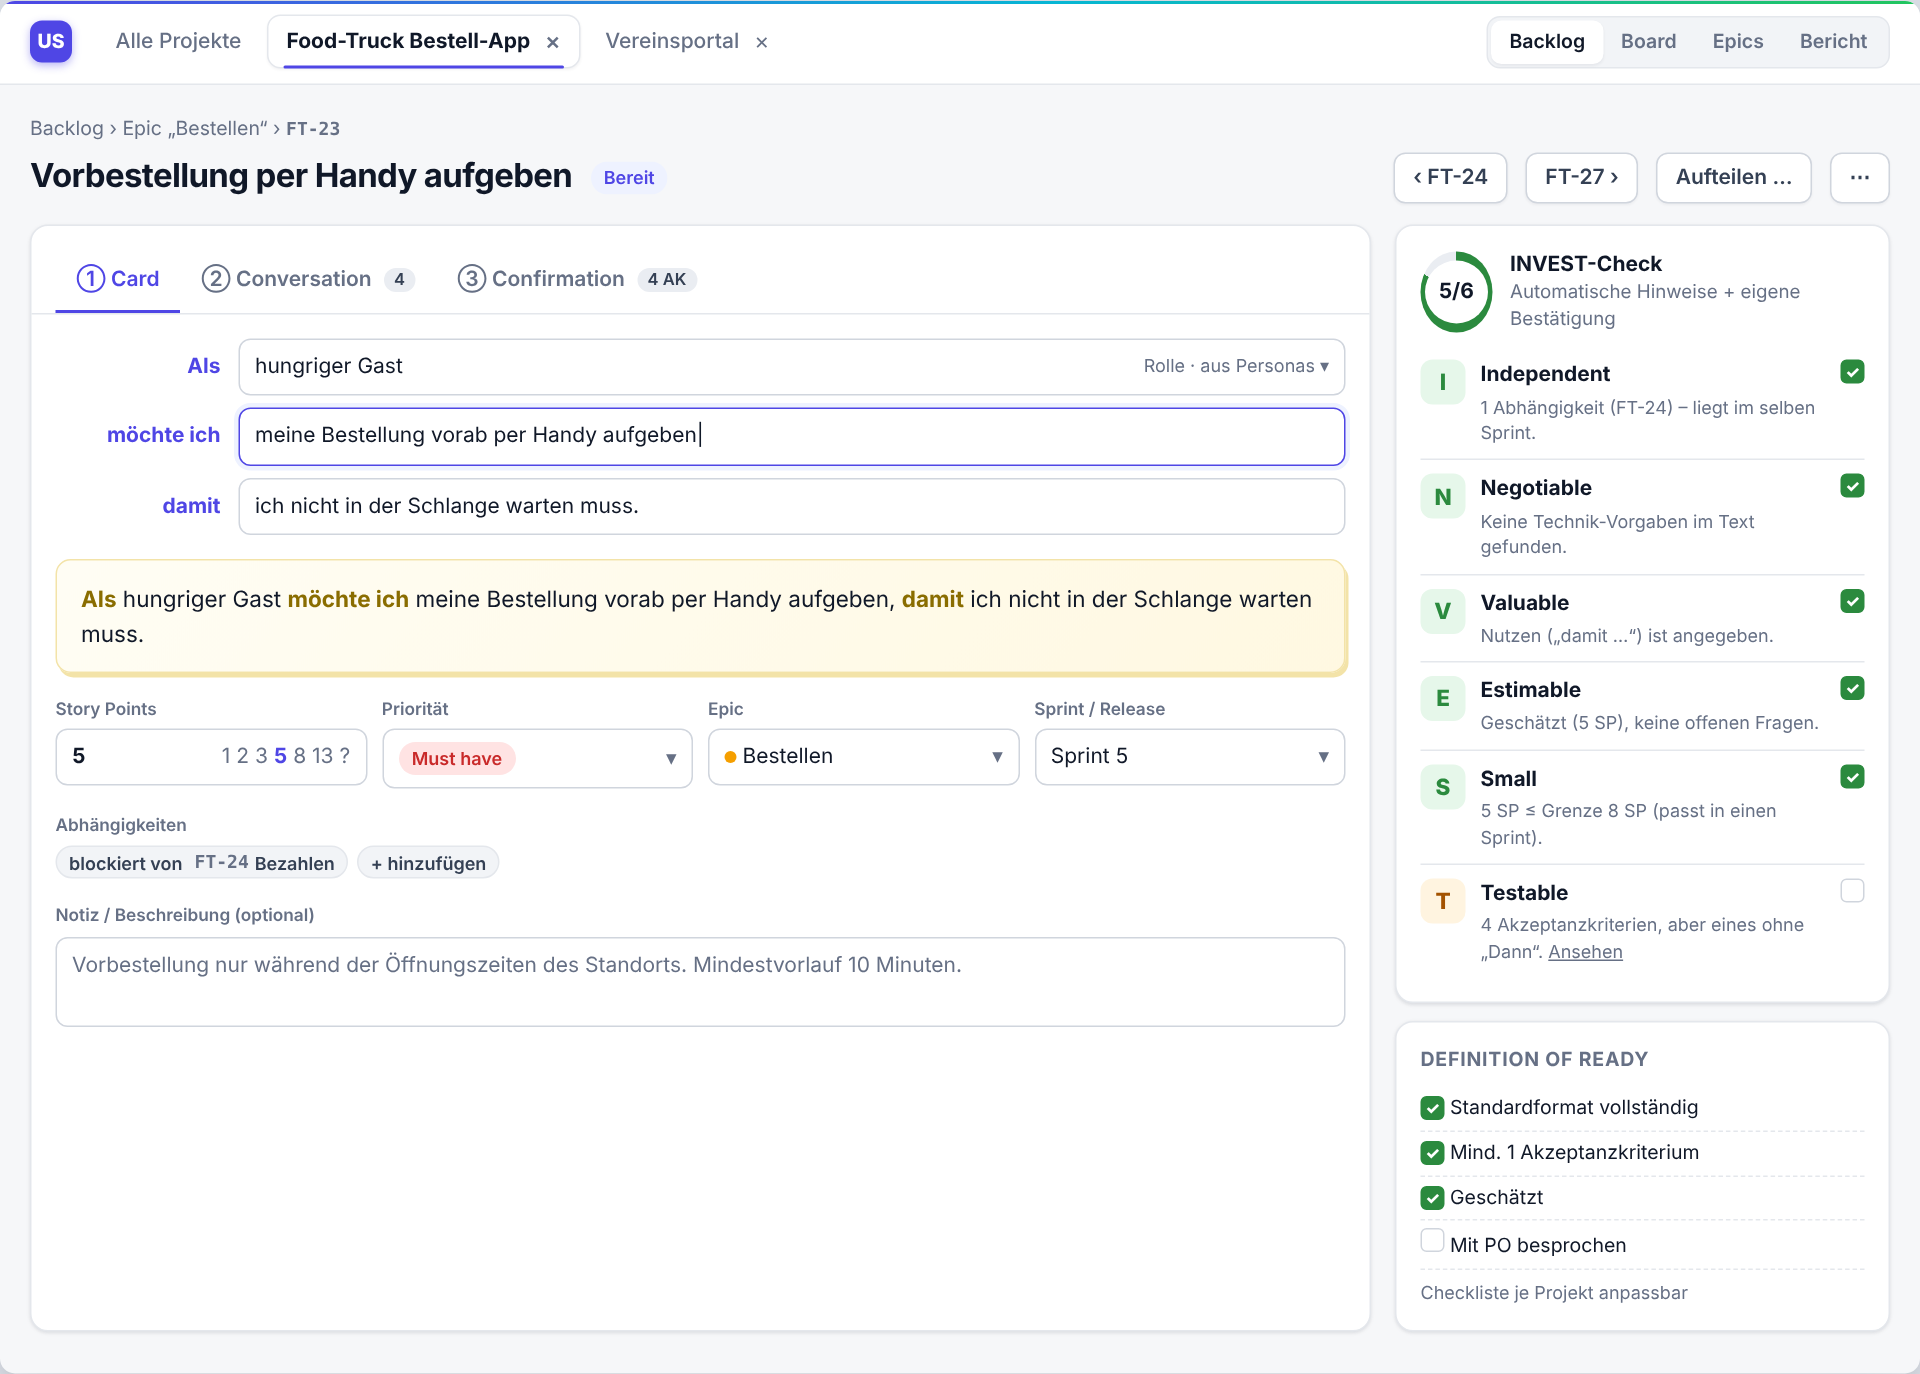
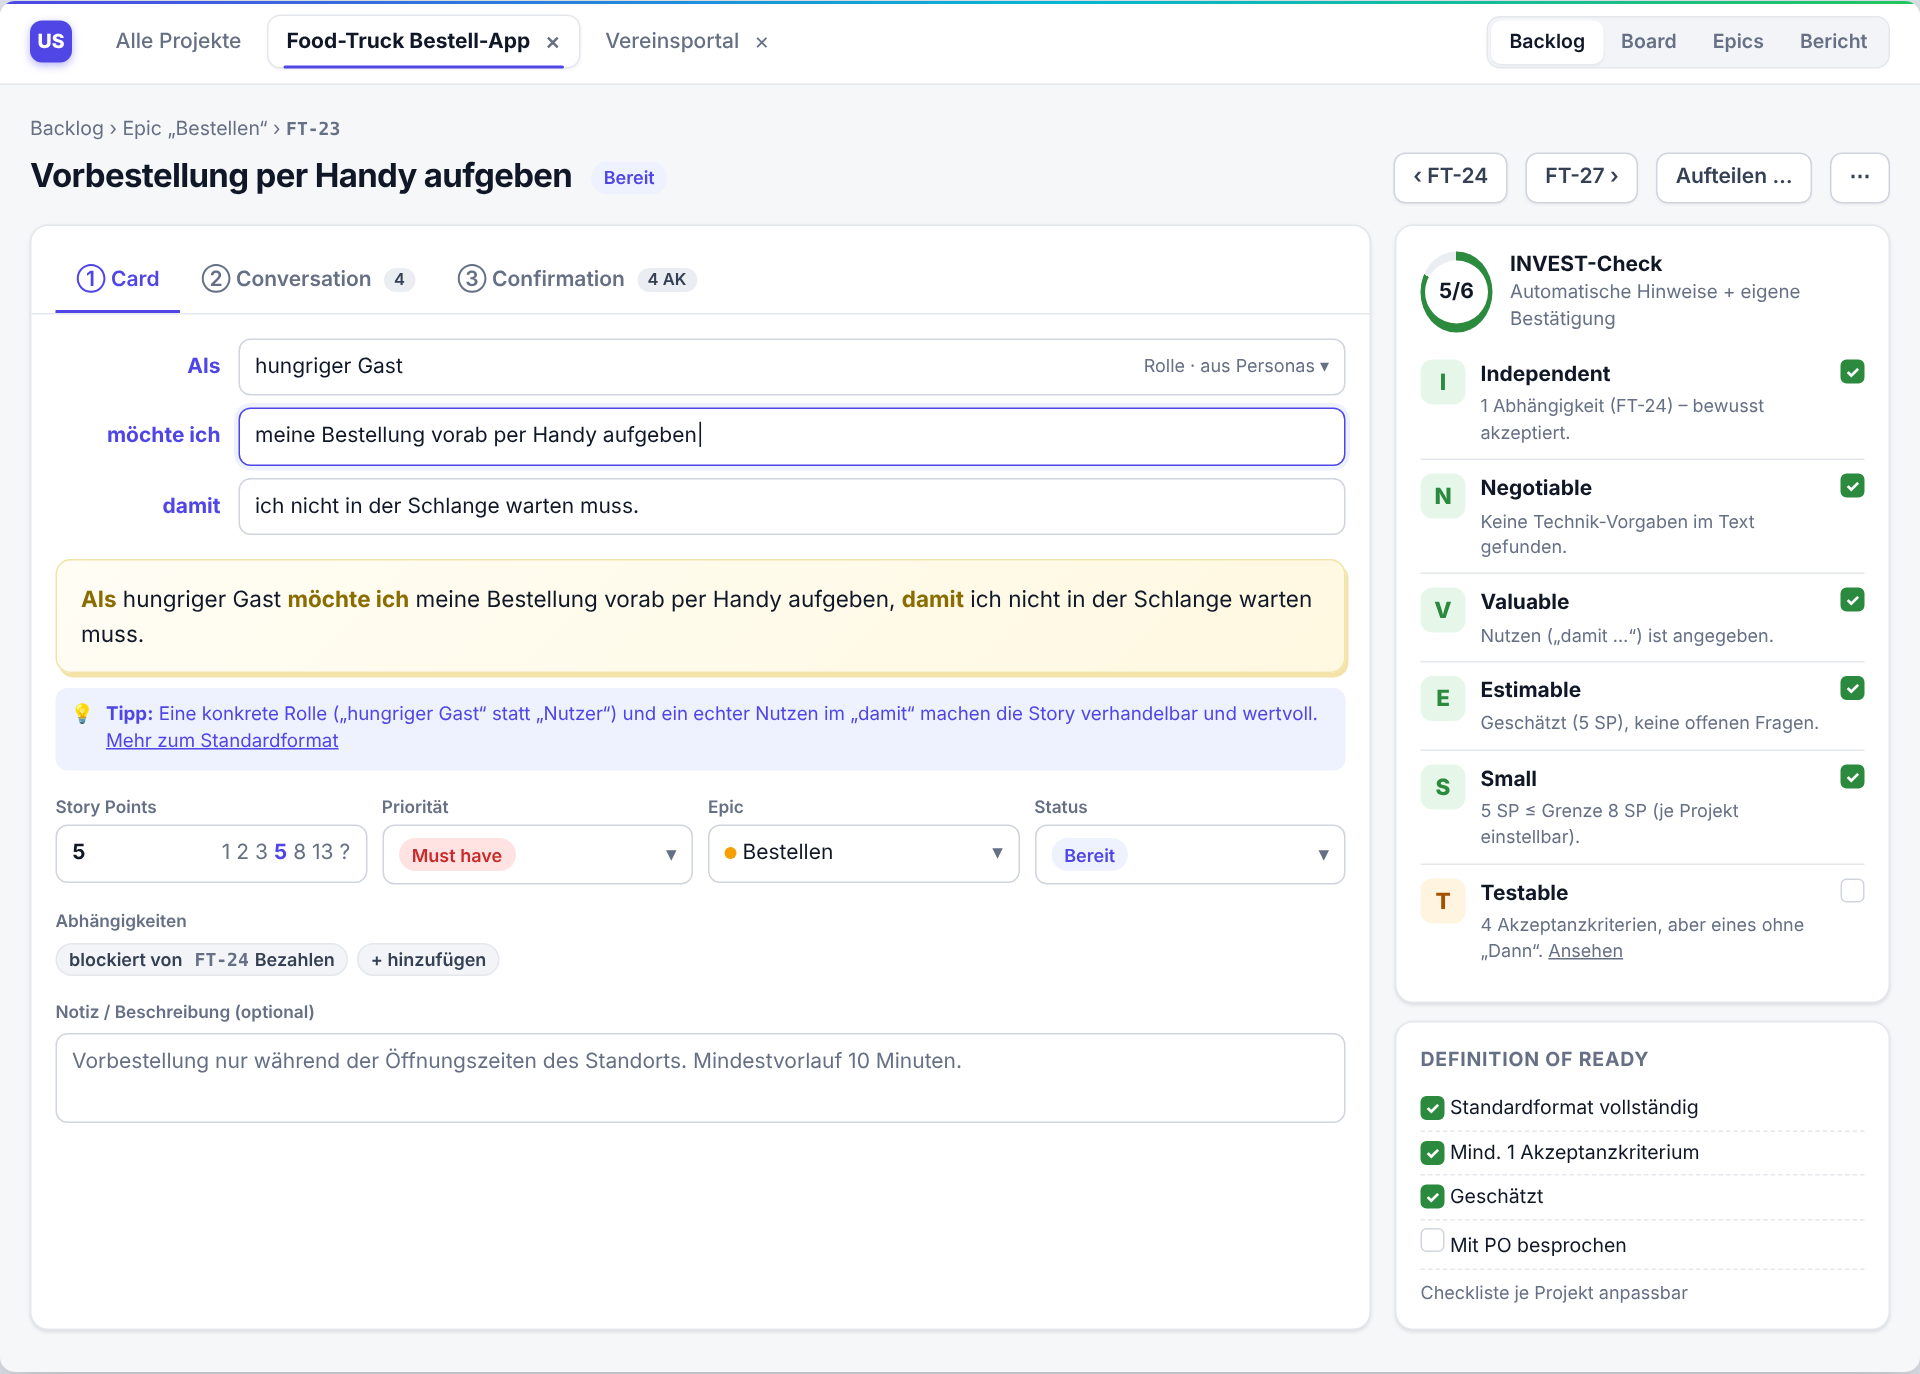
Mockups ohne Sprints, Fokus auf Methodik
Sprint-Felder, Velocity, WIP-Limit und Zuständigkeiten entfernt; Board
filtert nach Epic/Priorität; Tipp zum Standardformat im Story-Editor;
Abgrenzung in der Mockup-README.

Claude-Session: https://claude.ai/code/session_01XxdroGWY55YMKLM9ZTDV1C

diff --git a/docs/mockups/mockups.html b/docs/mockups/mockups.html
@@ -213,7 +213,7 @@
         <div class="proj-head">
           <div class="proj-icon" style="background:#f59f00">FT</div>
           <div style="flex:1"><h2>Food-Truck Bestell-App</h2><div class="sub" style="font-size:12.5px">Vorbestellen, bezahlen, abholen – ohne Schlange</div></div>
-          <span class="chip acc">Sprint 5</span>
+          <span class="chip acc">In Umsetzung</span>
         </div>
         <div class="meta">
           <div><b>31</b><small>Stories</small></div>
@@ -224,7 +224,7 @@
           <div class="progress"><span style="width:35%;background:var(--good)"></span><span style="width:12%;background:#06b6d4"></span><span style="width:16%;background:var(--accent)"></span><span style="width:18%;background:#a5b4fc"></span></div>
           <div class="legend" style="margin-top:6px"><span><i class="dot" style="background:var(--good)"></i>Fertig 11</span><span><i class="dot" style="background:#06b6d4"></i>In Arbeit 4</span><span><i class="dot" style="background:var(--accent)"></i>Bereit 5</span><span><i class="dot" style="background:#a5b4fc"></i>Entwurf 6</span><span><i class="dot" style="background:var(--surface-3)"></i>Idee 5</span></div>
         </div>
-        <div class="hint">⚠ 2 Stories im Sprint ohne Akzeptanzkriterien</div>
+        <div class="hint">⚠ 2 „Bereit“-Stories ohne Akzeptanzkriterien</div>
       </div>
 
       <div class="card proj">
@@ -249,7 +249,7 @@
         <div class="proj-head">
           <div class="proj-icon" style="background:#2b8a3e">LV</div>
           <div style="flex:1"><h2>Lastenrad-Verleih</h2><div class="sub" style="font-size:12.5px">Räder finden, buchen, Schloss per App öffnen</div></div>
-          <span class="chip good">Release 1.0 ✓</span>
+          <span class="chip good">Abgeschlossen ✓</span>
         </div>
         <div class="meta">
           <div><b>15</b><small>Stories</small></div>
@@ -319,9 +319,10 @@
           <h3>Backlog-Gesundheit</h3>
           <div class="stat-row"><span>Stories gesamt</span><b>31</b></div>
           <div class="stat-row"><span>Story Points (geschätzt)</span><b>118 <span class="sub" style="font-weight:500">· 4 offen</span></b></div>
-          <div class="stat-row"><span>Bereit für Sprint (DoR)</span><b style="color:var(--good)">5 · 21 SP</b></div>
+          <div class="stat-row"><span>Bereit (Definition of Ready)</span><b style="color:var(--good)">5 · 21 SP</b></div>
           <div class="stat-row"><span>Ø Akzeptanzkriterien</span><b>3,2</b></div>
-          <div class="stat-row"><span>Velocity (Ø 3 Sprints)</span><b>19 SP</b></div>
+          <div class="stat-row"><span>Stories ohne „damit“</span><b style="color:var(--warn)">2</b></div>
+          <div class="stat-row"><span>Offene Fragen (Conversation)</span><b style="color:var(--warn)">3</b></div>
         </div>
         <div class="card pad">
           <h3>INVEST im Projekt</h3>
@@ -377,11 +378,12 @@
         </div>
         <div class="preview"><span class="kw">Als</span> hungriger Gast <span class="kw">möchte ich</span> meine Bestellung vorab per Handy aufgeben, <span class="kw">damit</span> ich nicht in der Schlange warten muss.</div>
 
+        <div class="hint" style="background:var(--accent-soft);color:var(--accent);margin-top:10px">💡 <span><b>Tipp:</b> Eine konkrete Rolle („hungriger Gast“ statt „Nutzer“) und ein echter Nutzen im „damit“ machen die Story verhandelbar und wertvoll. <u>Mehr zum Standardformat</u></span></div>
         <div class="props">
           <div><small>Story Points</small><div class="input"><b>5</b><span class="sub">1 2 3 <b style="color:var(--accent)">5</b> 8 13 ?</span></div></div>
           <div><small>Priorität</small><div class="input"><span class="chip must">Must have</span><span class="sub">▾</span></div></div>
           <div><small>Epic</small><div class="input"><span><span class="dot" style="background:#f59f00"></span>Bestellen</span><span class="sub">▾</span></div></div>
-          <div><small>Sprint / Release</small><div class="input"><span>Sprint 5</span><span class="sub">▾</span></div></div>
+          <div><small>Status</small><div class="input"><span class="chip acc">Bereit</span><span class="sub">▾</span></div></div>
         </div>
         <div style="margin-top:14px">
           <small class="sub" style="font-weight:600;font-size:11.5px">Abhängigkeiten</small>
@@ -396,11 +398,11 @@
       <aside>
         <div class="card pad" style="margin-bottom:12px">
           <div class="score"><div class="ring"><b>5/6</b></div><div><b>INVEST-Check</b><div class="sub" style="font-size:12.5px">Automatische Hinweise + eigene Bestätigung</div></div></div>
-          <div class="inv-item"><span class="inv-letter" style="background:var(--good-bg);color:var(--good)">I</span><div><b>Independent</b><p>1 Abhängigkeit (FT-24) – liegt im selben Sprint.</p></div><span class="check on">✓</span></div>
+          <div class="inv-item"><span class="inv-letter" style="background:var(--good-bg);color:var(--good)">I</span><div><b>Independent</b><p>1 Abhängigkeit (FT-24) – bewusst akzeptiert.</p></div><span class="check on">✓</span></div>
           <div class="inv-item"><span class="inv-letter" style="background:var(--good-bg);color:var(--good)">N</span><div><b>Negotiable</b><p>Keine Technik-Vorgaben im Text gefunden.</p></div><span class="check on">✓</span></div>
           <div class="inv-item"><span class="inv-letter" style="background:var(--good-bg);color:var(--good)">V</span><div><b>Valuable</b><p>Nutzen („damit …“) ist angegeben.</p></div><span class="check on">✓</span></div>
           <div class="inv-item"><span class="inv-letter" style="background:var(--good-bg);color:var(--good)">E</span><div><b>Estimable</b><p>Geschätzt (5 SP), keine offenen Fragen.</p></div><span class="check on">✓</span></div>
-          <div class="inv-item"><span class="inv-letter" style="background:var(--good-bg);color:var(--good)">S</span><div><b>Small</b><p>5 SP ≤ Grenze 8 SP (passt in einen Sprint).</p></div><span class="check on">✓</span></div>
+          <div class="inv-item"><span class="inv-letter" style="background:var(--good-bg);color:var(--good)">S</span><div><b>Small</b><p>5 SP ≤ Grenze 8 SP (je Projekt einstellbar).</p></div><span class="check on">✓</span></div>
           <div class="inv-item"><span class="inv-letter" style="background:var(--warn-bg);color:var(--warn)">T</span><div><b>Testable</b><p>4 Akzeptanzkriterien, aber eines ohne „Dann“. <u>Ansehen</u></p></div><span class="check"></span></div>
         </div>
         <div class="card pad">
@@ -458,7 +460,7 @@
 </section>
 
 <!-- ============ 5 Board ============ -->
-<div class="caption">5 · Board (Abarbeitung) mit Definition of Ready / Done</div>
+<div class="caption">5 · Board (Abarbeitung) – Status-Fluss mit Definition of Ready / Done, ohne Sprints</div>
 <section class="screen" id="s5-board">
   <header class="app-header">
     <div class="brand"><span class="logo">US</span></div>
@@ -467,10 +469,9 @@
   </header>
   <main>
     <div class="toolbar">
-      <b style="font-size:16px">Sprint 5</b><span class="sub">14.–25. Okt · Ziel: „Gäste können vorbestellen und bezahlen“</span>
+      <div class="search">⌕ Stories durchsuchen …</div><span class="chip">Epic: alle ▾</span><span class="chip">Priorität ▾</span>
       <span class="spacer"></span>
-      <span class="sub">21 / 24 SP geplant</span><div class="progress" style="width:140px"><span style="width:29%;background:var(--good)"></span><span style="width:33%;background:#06b6d4"></span></div>
-      <div class="seg"><span class="on">Sprint</span><span>Alle Stories</span></div>
+      <span class="sub">Abgenommen: 11 von 31 Stories</span><div class="progress" style="width:140px"><span style="width:35%;background:var(--good)"></span></div>
     </div>
     <div class="board">
       <div class="col">
@@ -486,9 +487,9 @@
         <div class="tcard"><span class="id">FT-14</span><div class="t">Ausverkaufte Gerichte sperren</div><div class="f"><span class="chip should" style="height:18px">S</span><span>AK 0/2</span><span class="mini-ac"><span></span><span></span></span><span class="pts">3</span></div></div>
       </div>
       <div class="col" style="position:relative">
-        <div class="col-head">In Arbeit <span class="n">2</span><span class="wip">WIP 2/3</span></div>
-        <div class="tcard"><span class="id">FT-24</span><div class="t">Mit Apple/Google Pay bezahlen</div><div class="f"><span class="avatar" style="background:#4f46e5;width:20px;height:20px;font-size:9px">TM</span><span>AK 2/5</span><span class="mini-ac"><span class="on"></span><span class="on"></span><span></span><span></span><span></span></span><span class="pts">8</span></div></div>
-        <div class="tcard drag"><span class="id">FT-12</span><div class="t">Speisekarte mit Fotos</div><div class="f"><span class="avatar" style="background:#2b8a3e;width:20px;height:20px;font-size:9px">AS</span><span>AK 3/3</span><span class="mini-ac"><span class="on"></span><span class="on"></span><span class="on"></span></span><span class="pts">2</span></div></div>
+        <div class="col-head">In Arbeit <span class="n">2</span></div>
+        <div class="tcard"><span class="id">FT-24</span><div class="t">Mit Apple/Google Pay bezahlen</div><div class="f"><span>AK 2/5</span><span class="mini-ac"><span class="on"></span><span class="on"></span><span></span><span></span><span></span></span><span class="pts">8</span></div></div>
+        <div class="tcard drag"><span class="id">FT-12</span><div class="t">Speisekarte mit Fotos</div><div class="f"><span>AK 3/3</span><span class="mini-ac"><span class="on"></span><span class="on"></span><span class="on"></span></span><span class="pts">2</span></div></div>
       </div>
       <div class="col">
         <div class="col-head">Review <span class="n">1</span></div>

diff --git a/docs/mockups/README.md b/docs/mockups/README.md
@@ -13,3 +13,7 @@ Statische Entwürfe (keine Funktion), im Stil der [Morphologischen Matrix](https
 | 7 | Mobile Ansicht des Backlogs | `s7-mobil.png` |
 
 Beispieldaten: fiktives Projekt „Food-Truck Bestell-App“ (angelehnt an das Beispiel *Food-Truck gründen* der Matrix-App).
+
+## Abgrenzung
+
+Die App unterstützt die **Methodik** (Standardformat, 3Cs, INVEST, Akzeptanzkriterien, Definition of Ready/Done, Aufteilen) und ist **kein Projektmanagement-Werkzeug**: keine Sprints, keine Velocity, keine Zuständigkeiten oder WIP-Limits. Story Points dienen nur der INVEST-Prüfung („Estimable“, „Small“). Der Status-Fluss im Board bildet die Abarbeitung einer Story ab (Entwurf → Bereit → In Arbeit → Review → Fertig).
